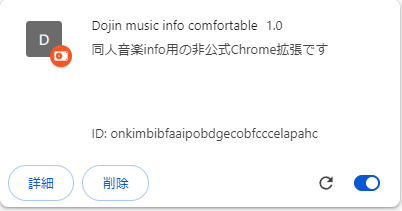
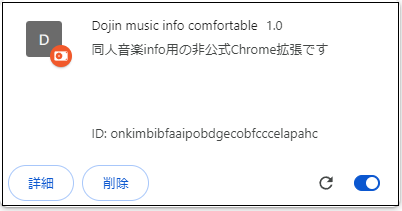
READMEへの画像追加

Changed region(s): [[0.0, 0.0, 1.0, 0.9953]]

diff --git a/README.md b/README.md
@@ -31,8 +31,12 @@
 
 同人音楽infoの[所持CDページ](https://www.dojin-music.info/my/possession)の右上の方にある「所持CDの更新」ボタンを押すと、拡張機能の内部ストレージ上に保持している所持CDリストが更新されます。
 
+![alt text](README用画像/所持CD更新.png)
+
+
 ### 未所持CDを確認する
 ログインして所持CDを更新した状態でアーティストページ、サークルページ、タグページなどを開くと、所持未所持が一覧で分かるようになっています。
+
 
 ## 手動での導入方法
 
@@ -42,7 +46,6 @@
 
 1. このページの右上のCode>Download ZIPでダウンロードし、解凍して好きなところに置く
 2. ググる（例：[自作したchrome拡張機能のインストール方法](https://exemate.co.jp/archives/7594)）
-
 
 ### 更新方法
 
